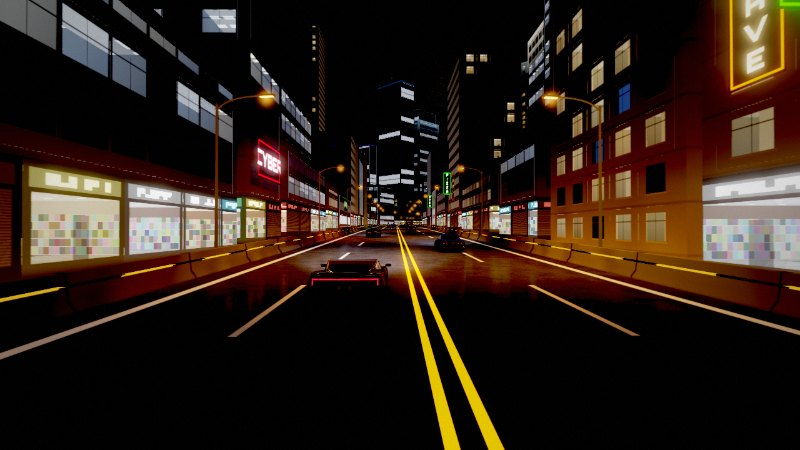
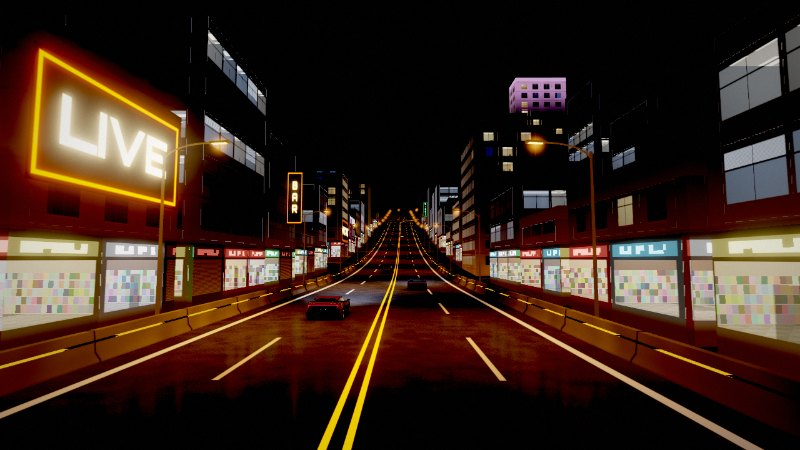
Build Uptown Heights as a town on a 60 m hill
The track now climbs a real hill: flat along the main straight, a gentle rise past turn 1, a climb to the crest (15% at its steepest), down through the esses (11%), a switchback hairpin up the flank and down through the underpass. The crest ramp is a little taller, so the car flies 80-95 m off the top either way round.

- With the new `hill` flag, the ground becomes one smooth hill under the roads.
- The town on the hill is an old town's: narrow, mid-rise blocks in three rows. The rows behind the street front stand on their own ground and step up and down the slope, and every block reaches down to a foundation, so none floats where the ground falls away. Their lower floors show lit windows below street level.
- Where the hill falls away beside the road at the crest, the street front on that side and the overpasses are left out, for the view down over the rooftops and the lit streets below.
- A "town" ground style: paved beside the road, the town's lit streets further out.
- The setup card's photo is retaken.
- DEVELOPMENT.md explains `elevation` keyframes and `hill: true`.

diff --git a/src/world/decor-common.js b/src/world/decor-common.js
@@ -589,11 +589,67 @@ export function buildGantries(track, baker, palette, opts = {}) {
 // ---------------------------------------------------------------------------------------
 // Ground: terrain that follows the track nearby and flattens out, with a theme shader.
 // ---------------------------------------------------------------------------------------
+
+/**
+ * The hill under a road that climbs well above its lowest point: the road's heights spread
+ * outward (a gaussian of `sigma` metres) and fade to `base` far from the road, so the ground
+ * between roads at different heights is one smooth slope. Returns (x, z) => height.
+ */
+export function hillField(track, opts = {}) {
+  const sigma = opts.sigma ?? 140;
+  const falloff = opts.falloff ?? 4; // weight of the base: higher, the hill ends sooner
+  const base = opts.base ?? track.bounds.minY - 1.2;
+  const step = Math.max(1, Math.round(10 / track.ds));
+  const sx = [];
+  const sz = [];
+  const sy = [];
+  for (let i = 0; i < track.n; i += step) {
+    sx.push(track.px[i]);
+    sz.push(track.pz[i]);
+    sy.push(track.py[i]);
+  }
+  const inv = 1 / (2 * sigma * sigma);
+  const cut2 = (3.2 * sigma) ** 2;
+  return (x, z) => {
+    let sw = falloff;
+    let sh = falloff * base;
+    for (let k = 0; k < sx.length; k++) {
+      const dx = sx[k] - x;
+      const dz = sz[k] - z;
+      const d2 = dx * dx + dz * dz;
+      if (d2 > cut2) continue;
+      const w = Math.exp(-d2 * inv);
+      sw += w;
+      sh += w * sy[k];
+    }
+    return sh / sw;
+  };
+}
+
+/**
+ * The ground's surface over a hillField: at the road's own height beside it (a little below the
+ * road, as everywhere), blending into the hill over `blend` metres from a few metres out (so the
+ * terrain mesh, coarser than the road, can't cut a corner up through the road's edge on a steep
+ * slope). Returns (x, z) => height.
+ */
+export function hillGround(track, field, blend = 40) {
+  const W = track.halfWidth;
+  return (x, z) => {
+    const hill = field(x, z) - 0.9;
+    const r = track.nearestDistance(x, z, W + blend + 16);
+    if (r.index < 0) return hill;
+    const t = smoothstep(W + 6, W + 6 + blend, r.dist);
+    return (track.py[r.index] - 0.9) * (1 - t) + hill * t;
+  };
+}
+
+/** opts.ground: the surface's height at (x, z) (a hillGround) instead of falling to baseY. */
 export function buildTerrain(track, palette, opts = {}) {
   const b = track.bounds;
   const margin = opts.margin ?? 600;
   const cell = opts.cell ?? 22;
   const baseY = opts.baseY ?? b.minY - 0.8;
+  const ground = opts.ground ?? null;
   const minX = b.minX - margin;
   const maxX = b.maxX + margin;
   const minZ = b.minZ - margin;
@@ -609,11 +665,13 @@ export function buildTerrain(track, palette, opts = {}) {
   for (let v = 0; v < pos.count; v++) {
     const x = pos.getX(v);
     const z = pos.getZ(v);
-    const r = track.nearestDistance(x, z, 160);
-    let y = baseY;
+    const r = track.nearestDistance(x, z, ground ? W + 52 : 160);
+    let y = ground ? ground(x, z) : baseY;
     if (r.index >= 0) {
-      const t = smoothstep(W + 3, W + (opts.blend ?? 110), r.dist);
-      y = (track.py[r.index] - 0.9) * (1 - t) + baseY * t;
+      if (!ground) {
+        const t = smoothstep(W + 3, W + (opts.blend ?? 110), r.dist);
+        y = (track.py[r.index] - 0.9) * (1 - t) + baseY * t;
+      }
       near[v] = 1 - smoothstep(W + 2, W + 40, r.dist);
     }
     pos.setY(v, y);
@@ -639,7 +697,7 @@ export function createGroundMaterial(palette, style) {
       uBase: { value: new THREE.Color(palette.ground ?? '#06060a') },
       uLineA: { value: new THREE.Color(palette.primary) },
       uLineB: { value: new THREE.Color(palette.secondary) },
-      uStyle: { value: style === 'grass' ? 1 : style === 'carpet' ? 2 : 0 },
+      uStyle: { value: { grass: 1, carpet: 2, town: 3 }[style] ?? 0 },
     },
     vertexShader: /* glsl */ `
       attribute float aNear;
@@ -669,23 +727,37 @@ export function createGroundMaterial(palette, style) {
       float hash12(vec2 p) { vec3 p3 = fract(vec3(p.xyx) * 0.1031); p3 += dot(p3, p3.yzx + 33.33); return fract((p3.x + p3.y) * p3.z); }
       float vnoise(vec2 p) { vec2 i = floor(p); vec2 f = fract(p); vec2 u = f * f * (3.0 - 2.0 * f);
         return mix(mix(hash12(i), hash12(i + vec2(1,0)), u.x), mix(hash12(i + vec2(0,1)), hash12(i + vec2(1,1)), u.x), u.y); }
+      // city light carpet: sodium street grid, a few white main roads, scattered lit windows
+      vec3 carpet(vec2 p) {
+        vec2 g = p / 34.0;
+        vec2 cell = floor(g);
+        vec2 f = fract(g);
+        float street = 1.0 - smoothstep(0.0, 0.05, min(min(f.x, 1.0 - f.x), min(f.y, 1.0 - f.y)));
+        float dots = step(0.5, fract((p.x + p.y) * 0.2)) * street;
+        float block = hash12(cell);
+        vec3 col = uBase + uAmbient * 0.04;
+        vec3 sodium = vec3(1.0, 0.62, 0.28);
+        col += mix(sodium, vec3(0.9, 0.95, 1.0), step(0.85, block)) * dots * 0.9;
+        col += vec3(1.0, 0.82, 0.6) * step(0.988, hash12(floor(p / 5.0))) * (1.0 - street) * 1.1;
+        col += vec3(0.85, 0.9, 1.0) * step(0.995, hash12(floor(p / 4.0) + 7.0)) * (1.0 - street) * 1.0;
+        return col;
+      }
+      // dark urban ground with faint grid
+      vec3 urban(vec2 p) {
+        vec2 g = abs(fract(p / 40.0) - 0.5);
+        float line = 1.0 - smoothstep(0.0, 0.02, min(g.x, g.y));
+        float n = vnoise(p * 0.5);
+        return uBase * (0.8 + 0.4 * n) + uAmbient * 0.05 + uLineA * line * 0.06;
+      }
       void main() {
         vec2 p = vWorld.xz;
         vec3 col;
-        if (uStyle > 1.5) {
+        if (uStyle > 2.5) {
+          // a town on a hill: paved beside the road, the lit streets of the town further out
+          col = mix(carpet(p), urban(p), smoothstep(0.0, 0.4, vNear));
+        } else if (uStyle > 1.5) {
           // city light carpet far below
-          vec2 g = p / 34.0;
-          vec2 cell = floor(g);
-          vec2 f = fract(g);
-          float street = 1.0 - smoothstep(0.0, 0.05, min(min(f.x, 1.0 - f.x), min(f.y, 1.0 - f.y)));
-          float dots = step(0.5, fract((p.x + p.y) * 0.2)) * street;
-          float block = hash12(cell);
-          col = uBase + uAmbient * 0.04;
-          // sodium street grid, a few white main roads, scattered lit windows in the blocks
-          vec3 sodium = vec3(1.0, 0.62, 0.28);
-          col += mix(sodium, vec3(0.9, 0.95, 1.0), step(0.85, block)) * dots * 0.9;
-          col += vec3(1.0, 0.82, 0.6) * step(0.988, hash12(floor(p / 5.0))) * (1.0 - street) * 1.1;
-          col += vec3(0.85, 0.9, 1.0) * step(0.995, hash12(floor(p / 4.0) + 7.0)) * (1.0 - street) * 1.0;
+          col = carpet(p);
         } else if (uStyle > 0.5) {
           // night grass with mowing stripes
           float stripe = step(0.5, fract((p.x * 0.7 + p.y * 0.7) / 18.0));
@@ -693,11 +765,7 @@ export function createGroundMaterial(palette, style) {
           col = vec3(0.014, 0.03, 0.016) * (0.7 + 0.6 * n) * (0.85 + 0.25 * stripe);
           col += uAmbient * 0.04;
         } else {
-          // dark urban ground with faint grid
-          vec2 g = abs(fract(p / 40.0) - 0.5);
-          float line = 1.0 - smoothstep(0.0, 0.02, min(g.x, g.y));
-          float n = vnoise(p * 0.5);
-          col = uBase * (0.8 + 0.4 * n) + uAmbient * 0.05 + uLineA * line * 0.06;
+          col = urban(p);
         }
         col *= 1.0 + vNear * 0.6;
         float d = uFogDensity * vFogDepth;

diff --git a/src/world/decor-city.js b/src/world/decor-city.js
@@ -145,6 +145,12 @@ export function createSignMaterial() {
  * opts.groundY: build up from a fixed ground far below (elevated expressway) instead of road level;
  * heights are then measured from the road (rows' hMin/hMax may be negative = roofs below the road).
  * opts.rows: custom row layout; opts.signs / opts.shops: street-level dressing on or off.
+ * opts.width: [min, max] frontage of a building (narrow plots for an old town).
+ * opts.foundation: a height every building reaches down to, so on a hill the ground can fall away
+ * from the street without leaving a building floating: its lower floors show below street level.
+ * opts.groundAt(x, z): the ground's height on a hill; the rows behind the street front then stand
+ * on their own ground, so the town steps up and down the slope. opts.filter(i, side, row) can
+ * leave out the buildings at a sample, on one side, in one row; opts.bridgeAt(i) the overpasses.
  */
 export function buildCity(track, baker, palette, rand, opts = {}) {
   const W = track.halfWidth;
@@ -189,11 +195,11 @@ export function buildCity(track, baker, palette, rand, opts = {}) {
     for (const row of rows) {
       let s = rand() * 15;
       while (s < track.length) {
-        const width = 12 + rand() * 20;
+        const width = opts.width ? opts.width[0] + rand() * (opts.width[1] - opts.width[0]) : 12 + rand() * 20;
         const depth = row.dMin + rand() * (row.dMax - row.dMin);
         const i = Math.floor((s + width / 2) / track.ds) % track.n;
         s += width + row.gap[0] + rand() * (row.gap[1] - row.gap[0]);
-        if (!filter(i)) continue;
+        if (!filter(i, side, rows.indexOf(row))) continue;
         const rx = track.rx[i];
         const rz = track.rz[i];
         const rl = Math.hypot(rx, rz) || 1;
@@ -207,7 +213,14 @@ export function buildCity(track, baker, palette, rand, opts = {}) {
         // with a fixed ground far below, heights are relative to the road: stand up from the ground
         if (fixedGround !== null) h = Math.max(12, track.py[i] - fixedGround + h);
         placed.push({ x: cx, z: cz, r: Math.hypot(width, depth) / 2 });
-        buildings.push({ x: cx, z: cz, y: groundOf(i), w: width, d: depth, h, yaw, side, i, row: rows.indexOf(row) });
+        const ri = rows.indexOf(row);
+        // street level: the road's, or on a hill for the rows behind the front, its own ground's
+        // (which lies 0.9 below the street it would have)
+        const street = opts.groundAt && ri > 0 ? opts.groundAt(cx, cz) + 0.9 : null;
+        // down a slope well below the road, the roof stays below the road too: the view from the
+        // road goes out over the rooftops
+        if (street !== null && track.py[i] - street > 6) h = Math.max(6, Math.min(h, track.py[i] - street - 0.8));
+        buildings.push({ x: cx, z: cz, y: street === null ? groundOf(i) : street - 1.2, street, w: width, d: depth, h, yaw, side, i, row: ri });
       }
     }
   }
@@ -217,13 +230,15 @@ export function buildCity(track, baker, palette, rand, opts = {}) {
   const blocks = [];
   for (const b of buildings) {
     // reference for "street level" (shop fronts, the warm wash of street lights on the walls)
-    const road = fixedGround === null ? track.py[b.i] : fixedGround + 1.2;
+    const road = b.street ?? (fixedGround === null ? track.py[b.i] : fixedGround + 1.2);
     const seed = rand() * 100;
     const style = b.h > 70 && rand() < 0.6 ? 1 : rand() < 0.5 ? 0.5 : 0;
     const litFrac = style === 0 ? 0.15 + rand() * 0.25 : style === 0.5 ? 0.18 + rand() * 0.35 : 0.1 + rand() * 0.25;
     const crownHue = rand();
     const shops = opts.shops !== false && b.row === 0 && rand() < 0.8 ? 1 : 0;
     const top = b.y + b.h;
+    // the lowest block stands on the foundation when there is one deeper than the street
+    const foot = opts.foundation != null ? Math.min(b.y, opts.foundation) : b.y;
     // local frame: x = depth (away from the road), z = width (along the road)
     const cs = Math.cos(b.yaw);
     const sn = Math.sin(b.yaw);
@@ -236,7 +251,7 @@ export function buildCity(track, baker, palette, rand, opts = {}) {
     b.signMax = b.h;
     if (b.h > 40 && rand() < 0.65) {
       const podTop = b.y + 1.2 + 6 + rand() * 10;
-      add(0, 0, b.d, b.w, b.y, podTop, 0);
+      add(0, 0, b.d, b.w, foot, podTop, 0);
       b.signMax = podTop - b.y;
       const inX = 1.5 + rand() * 3;
       const inZ = 1.5 + rand() * 3;
@@ -255,7 +270,7 @@ export function buildCity(track, baker, palette, rand, opts = {}) {
         roof = { lx: back, lz: 0, sx: tsx, sz: tsz, y: top };
       }
     } else {
-      add(0, 0, b.d, b.w, b.y, top, 0);
+      add(0, 0, b.d, b.w, foot, top, 0);
     }
     // rooftop service boxes (lift rooms, plant) on most roofs
     const nBox = rand() < 0.75 ? 1 + Math.floor(rand() * 2.5) : 0;
@@ -361,9 +376,9 @@ export function buildCity(track, baker, palette, rand, opts = {}) {
     const span = W * 2 + 34;
     let count = 0;
     for (let i = 40; i < track.n && count < opts.overpasses; i += Math.floor(track.n / (opts.overpasses + 1))) {
-      // find a straight-ish spot
+      // find a straight-ish spot (and one opts.bridgeAt allows)
       let j = i;
-      while (j < track.n - 1 && (Math.abs(track.kappa[j]) > 0.004 || track.tunnelFlags[j])) j++;
+      while (j < track.n - 1 && (Math.abs(track.kappa[j]) > 0.004 || track.tunnelFlags[j] || (opts.bridgeAt && !opts.bridgeAt(j)))) j++;
       if (j >= track.n - 1) break;
       count++;
       const f = { x: track.px[j], y: track.py[j], z: track.pz[j] };

diff --git a/src/world/world-builder.js b/src/world/world-builder.js
@@ -3,7 +3,7 @@ import { Track } from './track.js';
 import { getTrackDef } from './tracks.js';
 import { LightBaker } from './lighting.js';
 import { buildTrackSurfaces, buildPillars, buildBoostPads, buildRamps, buildStartGantry, barrierFaceOffset } from './track-mesh.js';
-import { buildLamps, buildChevrons, buildGantries, buildSignGantries, buildTerrain, createGroundMaterial } from './decor-common.js';
+import { buildLamps, buildChevrons, buildGantries, buildSignGantries, buildTerrain, createGroundMaterial, hillField, hillGround } from './decor-common.js';
 import { buildCity } from './decor-city.js';
 import { buildStadium } from './decor-stadium.js';
 import { createEnvironment, createEnvMap } from './environment.js';
@@ -123,11 +123,36 @@ export function buildWorld(renderer, trackId, variant, quality = {}) {
     ground.position.set((track.bounds.minX + track.bounds.maxX) / 2, groundY, (track.bounds.minZ + track.bounds.maxZ) / 2);
     decor.add(ground);
   } else if (def.theme === 'city') {
-    const city = buildCity(track, baker, palette, rand, { density, overpasses: 4, filter: notTunnel, cover });
+    // a town on a hill: the ground is one hill under the roads, and the blocks are an old town's,
+    // narrow and mid-rise. The rows behind the street front stand on their own ground, so the town
+    // climbs above the road and drops below it, and every block reaches down the slope below its
+    // street. Where the hill falls away beside the road (the crest), the street front on that side
+    // stays open, for the view down over the rooftops and the lit streets below
+    const ground = def.hill ? hillGround(track, hillField(track)) : null;
+    const fallsAway = (i, side) => {
+      const rl = Math.hypot(track.rx[i], track.rz[i]) || 1;
+      const k = (side * 40) / rl;
+      return track.py[i] - ground(track.px[i] + track.rx[i] * k, track.pz[i] + track.rz[i] * k) > 6;
+    };
+    const town = ground && {
+      rows: [
+        { setback: 6, dMin: 10, dMax: 18, hMin: 9, hMax: 30, gap: [0.5, 3] },
+        { setback: 28, dMin: 12, dMax: 22, hMin: 12, hMax: 42, gap: [2, 7] },
+        { setback: 56, dMin: 14, dMax: 28, hMin: 14, hMax: 60, gap: [4, 14] },
+      ],
+      width: [8, 20],
+      foundation: track.bounds.minY - 3,
+      groundAt: ground,
+      filter: (i, side, row) => notTunnel(i) && !(row === 0 && fallsAway(i, side)),
+      // no bridge over the open crest: there'd be nothing for it to join
+      bridgeAt: (i) => !fallsAway(i, -1) && !fallsAway(i, 1),
+    };
+    const city = buildCity(track, baker, palette, rand, { density, overpasses: 4, filter: notTunnel, cover, ...town });
     decor.add(city);
     const lamps = buildLamps(track, baker, { spacing: 30, filter: notTunnel, paired: true, color: palette.lamp, intensity: 0.8, radius: 20, offset: 2.4, height: 8.5, arm: 2.4 });
     if (lamps) decor.add(lamps);
-    const terrain = buildTerrain(track, palette, { style: 'asphalt', baseY: track.bounds.minY - 1.2 });
+    // (the plane out to the horizon sits below the hill's lowest ground)
+    const terrain = buildTerrain(track, palette, ground ? { style: 'town', ground, cell: 14, margin: 450, baseY: track.bounds.minY - 2.6 } : { style: 'asphalt', baseY: track.bounds.minY - 1.2 });
     decor.add(terrain);
   } else {
     const stadium = buildStadium(track, baker, palette, rand, { density, cones: quality.cones !== false, coneIntensity: rain ? 0.12 : 0.09 });

diff --git a/src/world/buildings.js b/src/world/buildings.js
@@ -169,8 +169,10 @@ export function createBuildingMaterial(opts = {}) {
         else wallCol = mix(vec3(0.1, 0.12, 0.15), vec3(0.16, 0.16, 0.18), bhash);
         if (kind > 0.5) wallCol = vec3(0.4, 0.4, 0.42) * (0.7 + 0.4 * bhash);
 
-        // light falling on the walls: night sky, warm street lights below, lit crowns above
-        float streetWash = exp(-max(yAbs, 0.0) / 5.0) * 0.32 + exp(-max(yAbs, 0.0) / 18.0) * 0.03;
+        // light falling on the walls: night sky, warm street lights below, lit crowns above. A
+        // building on a hill reaches down past its street, where the street lights don't reach
+        float below = max(-1.2 - yAbs, 0.0);
+        float streetWash = (exp(-max(yAbs, 0.0) / 5.0) * 0.32 + exp(-max(yAbs, 0.0) / 18.0) * 0.03) * exp(-below / 4.0);
         vec3 crownCol = mix(mix(vec3(1.0, 0.95, 0.85), vec3(0.45, 0.75, 1.0), step(0.4, crownHue)), vec3(0.85, 0.5, 1.0), step(0.75, crownHue));
         float crown = (totalH > 55.0 && kind < 0.5) ? smoothstep(totalH - 14.0, totalH - 1.0, yAbs) * step(0.35, h11(seed * 5.3)) : 0.0;
         vec3 wallLight = uAmbient * 0.1 + vec3(0.006, 0.007, 0.011) + uStreet * streetWash + crownCol * crown * 0.7;
@@ -229,11 +231,12 @@ export function createBuildingMaterial(opts = {}) {
           float fyAbs = (yAbs - podH) / floorH;
           float fi = floor(fyAbs);
           float ff = fract(fyAbs);
-          bool inGrid = bx >= 0.0 && bx < nb && yAbs > podH + 0.3 && yAbs < totalH - 1.2;
+          // (floors below the street too, where the ground falls away down a hill)
+          bool inGrid = bx >= 0.0 && bx < nb && ((yAbs > podH + 0.3 && yAbs < totalH - 1.2) || yAbs < -2.0);
 
           vec3 facade = wallCol * (0.85 + 0.25 * vnoise(vec2(uu, yAbs) * 0.35));
           // floor slab lines and a parapet cap
-          facade *= 1.0 - 0.18 * band(ff, 0.0, 0.06, 0.01) * step(podH, yAbs);
+          facade *= 1.0 - 0.18 * band(ff, 0.0, 0.06, 0.01) * max(step(podH, yAbs), step(yAbs, -2.0));
           facade = mix(facade, wallCol * 1.25, band(yAbs, totalH - 1.2, totalH + 1.0, 0.03));
           col = facade * wallLight;
 
@@ -308,7 +311,7 @@ export function createBuildingMaterial(opts = {}) {
           }
 
           // ---------------------------------------------------------------- storefronts
-          if (podH > 0.0 && yAbs < podH) {
+          if (podH > 0.0 && yAbs < podH && yAbs > -1.2) {
             float sw = 6.0 + 2.5 * h11(seed * 4.1);
             float sx = (uu + 0.5) / sw;
             float si = floor(sx);

diff --git a/src/world/tracks.js b/src/world/tracks.js
@@ -342,20 +342,22 @@ export const TRACKS = [
       ['S', 520], // 21 underpass
       ['R', 90, 50], // 22 last corner
     ],
-    // a hill, kept to about 9 m: city buildings stand at road level, so a taller hill would leave
-    // their backs floating above the ground as it falls away
+    // a town on a 60 m hill: flat along the main straight, a gentle rise past turn 1, the climb up
+    // to the crest (15% at its steepest, a San Francisco street), down through the esses (11%), a
+    // switchback hairpin up the hill's flank and down through the underpass. Each keyframe is a
+    // level spot (a smoothstep between them), so a long climb has as few as it can
     elevation: [
       [0.0, 0],
-      [0.16, 1],
-      [0.33, 2],
-      [0.43, 8],
-      [0.48, 9],
-      [0.56, 4],
-      [0.62, 1],
-      [0.75, 3],
-      [0.85, -1],
-      [0.93, -1],
+      [0.12, 0],
+      [0.36, 16],
+      [0.475, 62],
+      [0.59, 30],
+      [0.7, 12],
+      [0.77, 20],
+      [0.97, 0],
     ],
+    // the ground is one hill under the roads, and the town on it steps down the slope
+    hill: true,
     sections: [
       { type: 'city', from: 0, to: 0.999 },
       { type: 'tunnel', from: [21, 0.25], to: [21, 0.8] },
@@ -366,8 +368,9 @@ export const TRACKS = [
       { at: [6, 0.1], offset: -2.5 },
       { at: [21, 0.1], offset: 0 },
     ],
-    // on the crest, so the car flies off the top of the hill
-    ramps: [{ at: [8, 0.45], length: 24, height: 2.4, width: 10, offset: 0 }],
+    // on the crest, so the car flies off the top of the hill (1.3-1.4 s and 80-95 m in the air,
+    // landing softly on the way down, either way round)
+    ramps: [{ at: [8, 0.45], length: 24, height: 2.8, width: 10, offset: 0 }],
     palette: {
       lamp: '#ffb35c',
       lamp2: '#e4ecff',

diff --git a/src/ui/ui.js b/src/ui/ui.js
@@ -38,7 +38,7 @@ const TRACK_SHOTS = {
   lumen: { src: lumenShot, focus: '52% 55%' },
   circuit: { src: circuitShot, focus: '70% 55%' },
   ring: { src: ringShot, focus: '42% 55%' },
-  heights: { src: heightsShot, focus: '46% 55%' },
+  heights: { src: heightsShot, focus: '50% 55%' },
   park: { src: parkShot, focus: '48% 55%' },
 };
 // Event setup order (TRACKS keeps its own order: the daily challenge picks from it by index)

diff --git a/DEVELOPMENT.md b/DEVELOPMENT.md
@@ -148,6 +148,7 @@ path: [
 - **Features:** sections (`tunnel`, `city`, `stadium`, `open`), boost pads and ramps are placed with `[commandIndex, fraction]`.
 - **Room to boost:** a nitro fired at top speed carries the car about 340 m, and braking under a boost is weak. A straight needs about 450 m before a tight city corner (about 350 m before a fast sweeper) to fit a whole nitro plus the braking. Put boost pads just past a corner exit (`[straight, 0.05–0.12]`). In reverse, a pad is mirrored along its straight, so it still follows a corner exit. Ramps go mid-straight so there is room to land either way round.
 - **Look:** `theme` chooses the decorations and `palette` sets every colour.
+- **Hills:** `elevation` keyframes are level spots with a smoothstep between them, so a long climb wants as few as it can (the steepest point, mid-way, is 1.5 times the average). On a city track, `hill: true` builds a hill town (Uptown Heights): the ground becomes one hill under the roads, the blocks behind the street front stand on their own ground, every block reaches down the slope below its street, and where the ground falls away beside the road the street front and overpasses are left out for the view. Without it, keep a city track's climbs to a few metres, or the ground falls away and leaves the backs of the buildings floating.
 - **Difficulty:** `difficulty` (1 beginner, 2 intermediate, 3 expert) is shown as pips on the setup cards. Judge it from the tight corners (radius 60 m or less), the turning per km, the jumps and the width, then drive it to confirm. The current tracks split two per level.
 
 ## Tuning
